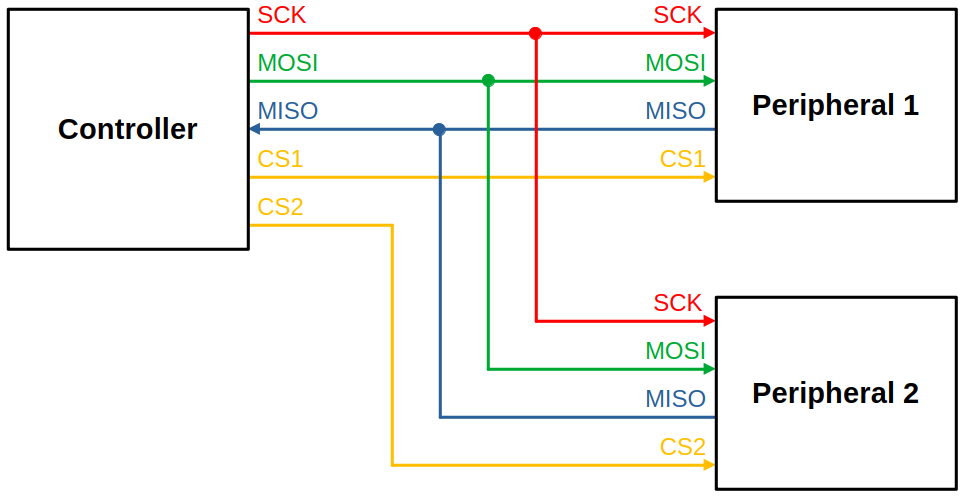
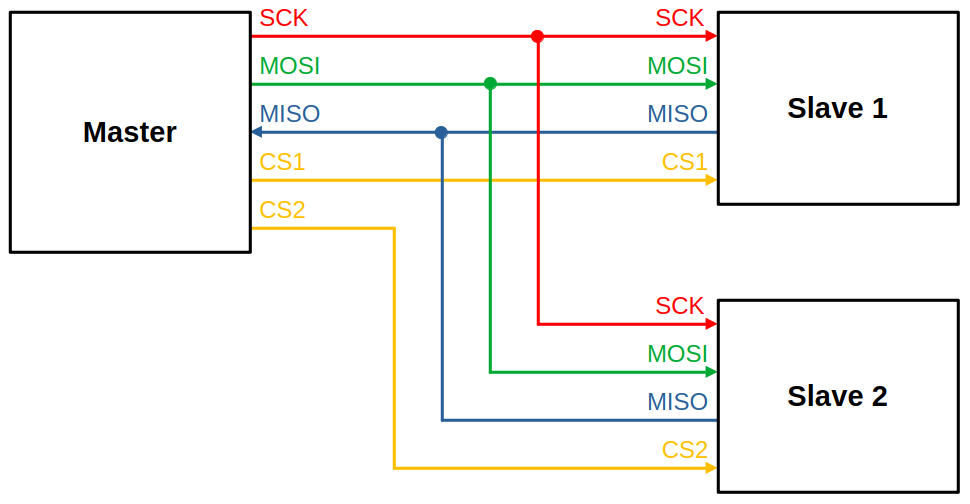
feat: add links

Changed region(s): [[0.0, 0.0, 0.9959, 0.996], [0.0622, 0.2414, 0.2178, 0.3018]]

diff --git a/index-en.md b/index-en.md
@@ -31,5 +31,11 @@ Hi everyone, welcome to my personal site! The site contains tech blogs and my ow
     </li>
   {% endfor %}
 </ul>
-<br>
+
 [View more...](/en/posts/)
+
+<br>
+
+# Links
+
+- <img src="https://images.elecannonic.com/global/logo.png" title="EleCannonic" alt="elecannonic.com" loading="lazy" width="10" height="10" style="aspect-ratio: 100 / 100;"> [elecannonic.com](https://elecannonic.com): Website by fellow student EleCannonic, covering physics and electronics.

diff --git a/index.md b/index.md
@@ -30,5 +30,10 @@ categories: zh-cn-page
     </li>
   {% endfor %}
 </ul>
-<br>
 [查看更多……](/posts/)
+
+<br>
+
+# 友情链接
+
+- <img src="https://images.elecannonic.com/global/logo.png" title="EleCannonic" alt="elecannonic.com" loading="lazy" width="10" height="10" style="aspect-ratio: 100 / 100;"> [elecannonic.com](https://elecannonic.com)：同校大佬 EleCannonic 的网站，涵盖物理学和电子学知识。
